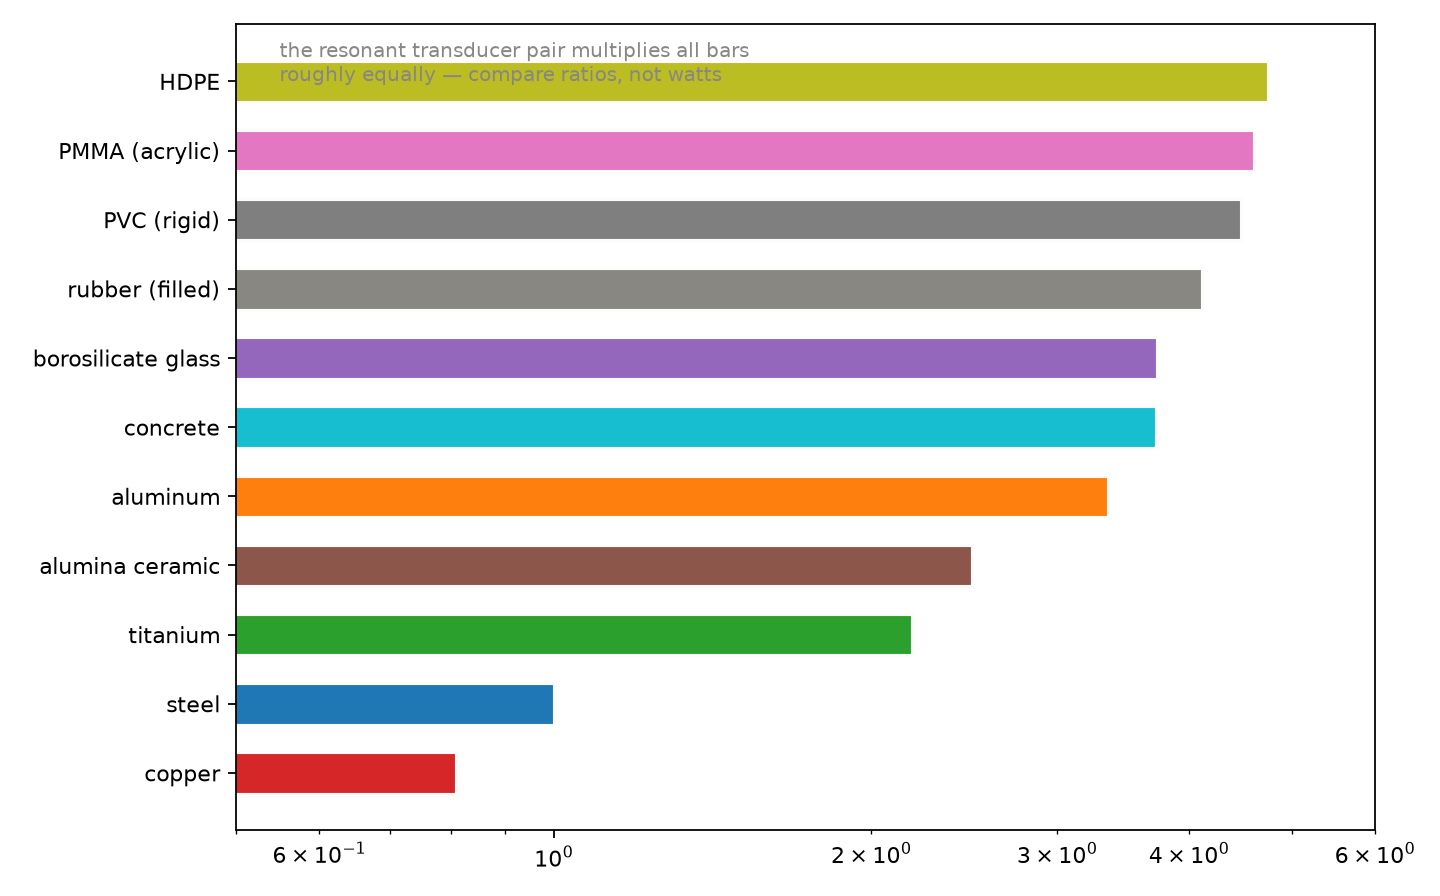
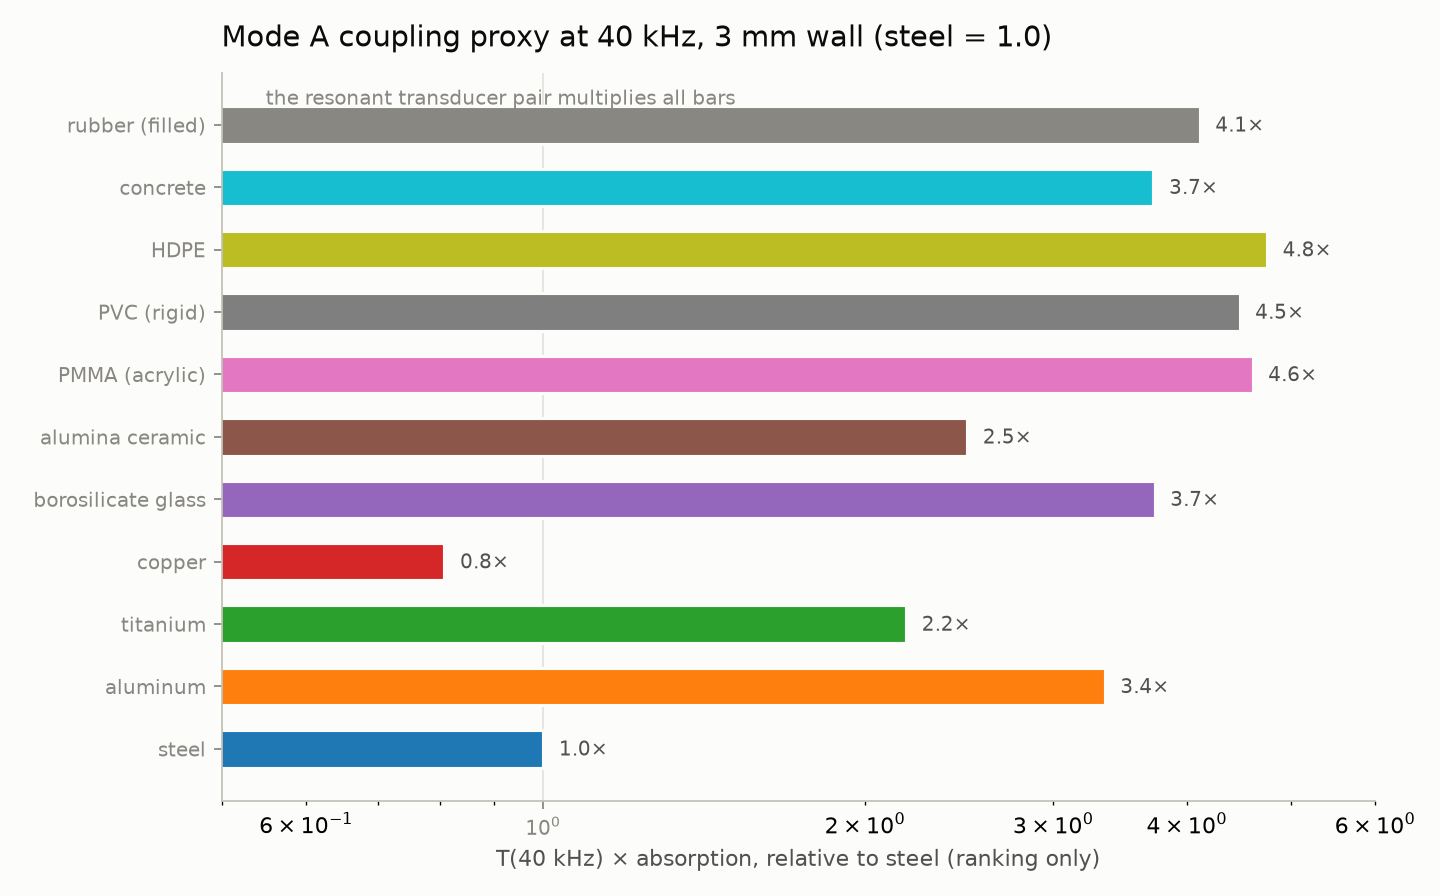
simulator+docs: the dose — wave-in-wall stress and self-heating vs frequency
Second half of the material study: what the radiation does TO the wall.
Stress sigma = sqrt(2*I*Z) is frequency-independent and leaves 65-680x
margins on every structural metal; self-heating dT ~ alpha(f)*I*d^2/8k
is the frequency-dependent harm — PMMA crosses +10 K near 1 W/cm^2 at
1 MHz, PVC at ~0.7, rubber deposits ~144 K per W/cm^2 at 1 MHz, concrete
is tensile-fatigue bound at ~1.6 W/cm^2 regardless of frequency. New
mat4 chart (heating curves + per-material intensity ceiling) with k and
fatigue limits added to the material table; docs/06 gains the dose
section, and the 002 follow-up now calls for an IR ΔT measurement.
Also fixes mat3: the bar chart was being overwritten by a stray empty
duplicate render left from an edit.

diff --git a/software/simulator/material_map.py b/software/simulator/material_map.py
@@ -4,7 +4,9 @@
 material_map.py — which wall materials carry power and data between two
 piezoelectric devices, and under which mode. The steel-only companion of
 channel_sim.py, covering titanium, aluminum, glass, ceramics, plastics,
-concrete — and the honest dead ends.
+concrete — and the honest dead ends — plus the reverse question: how much
+of the wave stays IN the wall (stress and self-heating vs frequency), and
+where the safe intensity ceiling for each material lies.
 
 Derived from the same semi-empirical model as channel_sim.py (NOT FEM, NOT
 lab data — intuition for which materials deserve a hardware experiment):
@@ -55,6 +57,7 @@ INK2    = "#52514e"
 MUTED   = "#898781"
 GRID    = "#e1e0d9"
 BASE    = "#c3c2b7"
+S3_BAND = "#1baf7a"   # aqua — the "project-relevant" band shade (mat4)
 
 def style_ax(ax, title, xlabel, ylabel):
     ax.set_facecolor(SURFACE)
@@ -73,36 +76,40 @@ def style_ax(ax, title, xlabel, ylabel):
 # ---------- wall materials ----------
 # Typical handbook values (longitudinal, ~20 °C). NOT measurements of specific
 # stock — batch-dependent: grain, fillers, aggregate, cure.
-#   rho   kg/m^3        density
-#   c     m/s           longitudinal sound speed
-#   a1    dB/cm@1MHz    bulk absorption at 1 MHz (one-way, longitudinal)
-#   gamma               alpha(f) = a1*(f/1MHz)^gamma  (1 = viscous/relaxation,
-#                       > 2 = scattering off inhomogeneities)
-#   cls   "metal" | "nonmetal"
+#   rho     kg/m^3        density
+#   c       m/s           longitudinal sound speed
+#   a1      dB/cm@1MHz    bulk absorption at 1 MHz (one-way, longitudinal)
+#   gamma                 alpha(f) = a1*(f/1MHz)^gamma  (1 = viscous/relaxation,
+#                         > 2 = scattering off inhomogeneities)
+#   k       W/(m*K)       thermal conductivity (sets the self-heating ceiling)
+#   sig_e   MPa           high-cycle fatigue limit for metals, flexural
+#                         strength for ceramics/glass, tensile strength for
+#                         concrete/rubber — the stress the wave must stay under
+#   cls     "metal" | "nonmetal"
 MATERIALS = [
-    # key        label           rho     c      a1     gamma  cls        note
-    ("steel",    "steel",        7850.0, 5900.0, 0.02, 1.0,  "metal",
+    # key        label           rho     c      a1    gamma  k      sig_e cls        note
+    ("steel",    "steel",        7850.0, 5900.0, 0.02, 1.0,  45.0,  200.0, "metal",
      "fine-grained structural"),
-    ("alum",     "aluminum",     2700.0, 6320.0, 0.02, 1.0,  "metal",
+    ("alum",     "aluminum",     2700.0, 6320.0, 0.02, 1.0,  205.0, 60.0,  "metal",
      "6061-class"),
-    ("ti",       "titanium",     4430.0, 6100.0, 0.03, 1.0,  "metal",
+    ("ti",       "titanium",     4430.0, 6100.0, 0.03, 1.0,  7.0,   500.0, "metal",
      "Ti-6Al-4V"),
-    ("cu",       "copper",       8960.0, 4760.0, 0.05, 1.0,  "metal",
+    ("cu",       "copper",       8960.0, 4760.0, 0.05, 1.0,  400.0, 60.0,  "metal",
      "dense, very high Z"),
-    ("glass",    "borosilicate glass", 2230.0, 5640.0, 0.01, 1.0, "nonmetal",
-     "very low loss"),
-    ("alumina",  "alumina ceramic",    3890.0, 9900.0, 0.08, 1.0, "nonmetal",
+    ("glass",    "borosilicate glass", 2230.0, 5640.0, 0.01, 1.0, 1.1, 30.0, "nonmetal",
+     "very low loss; brittle — compare to tensile strength"),
+    ("alumina",  "alumina ceramic",    3890.0, 9900.0, 0.08, 1.0,  30.0, 300.0, "nonmetal",
      "fast sound, low loss"),
-    ("pmma",     "PMMA (acrylic)",     1180.0, 2690.0, 2.5, 1.2, "nonmetal",
+    ("pmma",     "PMMA (acrylic)",     1180.0, 2690.0, 2.5, 1.2,  0.19, 15.0,  "nonmetal",
      "transparent, absorption-limited at MHz"),
-    ("pvc",      "PVC (rigid)",        1400.0, 2380.0, 6.0, 1.2, "nonmetal",
-     "lossier than PMMA"),
-    ("hdpe",     "HDPE",               950.0,  2340.0, 12.0, 1.5, "nonmetal",
-     "soft, lossy"),
-    ("concrete", "concrete",           2300.0, 3500.0, 5.0, 2.5, "nonmetal",
-     "aggregate scattering dominates; varies by orders of magnitude"),
-    ("rubber",   "rubber (filled)",    1100.0, 1500.0, 60.0, 1.0, "nonmetal",
-     "the honest dead end"),
+    ("pvc",      "PVC (rigid)",        1400.0, 2380.0, 6.0, 1.2,  0.15, 15.0,  "nonmetal",
+     "lossier than PMMA, Tg ~75 °C"),
+    ("hdpe",     "HDPE",               950.0,  2340.0, 12.0, 1.5,  0.45, 8.0,  "nonmetal",
+     "soft, lossy, melt ~130 °C"),
+    ("concrete", "concrete",           2300.0, 3500.0, 5.0, 2.5,  1.7,  2.5,  "nonmetal",
+     "aggregate scattering dominates; binding limit is TENSILE strength"),
+    ("rubber",   "rubber (filled)",    1100.0, 1500.0, 60.0, 1.0,  0.15, 1.5,  "nonmetal",
+     "the honest dead end: hysteresis heating"),
 ]
 BY_KEY = {m[0]: m for m in MATERIALS}
 
@@ -117,6 +124,16 @@ F_MODE_A = 40e3          # Hz
 
 def z_mrayl(m) -> float:
     return m[2] * m[3] / 1e6
+
+# accessors — keep the wide tuples from leaking numeric indices everywhere
+def mat_k(m):
+    return m[6]                      # W/(m*K)
+
+def mat_sig_e(m):
+    return m[7]                      # MPa, fatigue/strength limit
+
+def mat_cls(m):
+    return m[8]                      # "metal" | "nonmetal"
 
 def fp_transmission(f, d_m, c, z_wall, z_med=COUPLANT_Z):
     """Lossless Fabry-Perot intensity transmission of a slab (same model as
@@ -135,6 +152,40 @@ def wall_transmission(f, m, d_m):
     return fp_transmission(f, d_m, m[3], z_mrayl(m)) * absorption(
         f, d_m, m[4], m[5])
 
+# ---------- the dose: what the wave does to the wall ----------
+I_REF = 1e4          # W/m^2 — one watt per square centimetre
+DT_MAX = 20.0        # K — self-heating ceiling we call "safe" (well below
+                     # Tg of the polymers in the table; see docs/06)
+STRESS_FRAC = 0.2    # fraction of the fatigue/strength limit we spend
+
+def stress_mpa(m, intensity_w_m2=I_REF):
+    """Plane-wave stress amplitude sigma = Z*v = sqrt(2*I*Z).
+
+    Frequency-independent (a plane wave at fixed intensity carries the same
+    stress at any frequency) — the frequency-dependent harm is thermal."""
+    return np.sqrt(2.0 * intensity_w_m2 * z_mrayl(m) * 1e6) / 1e6
+
+def mu_np_per_m(m, f):
+    """Bulk attenuation of the wave as Np/m — power absorbed per m is mu*I."""
+    return m[4] * (f / 1e6) ** m[5] * 100.0 / 8.686
+
+def heat_dT(m, f, d_mm=WALL_MM, intensity_w_m2=I_REF):
+    """Steady-state mid-plane self-heating of a both-faces-cooled slab with
+    uniform generation (conservative-vs-transient duty, optimistic-vs-contact
+    losses): dT = q*d^2/(8*k)."""
+    d = d_mm / 1000.0
+    q = mu_np_per_m(m, f) * intensity_w_m2          # W/m^3
+    return q * d * d / (8.0 * mat_k(m))             # K (mid-plane, steady state)
+
+def intensity_ceiling_wcm2(m, f, d_mm=WALL_MM):
+    """Continuous intensity the wall survives: the lower of the stress cap
+    (STRESS_FRAC of the fatigue/strength limit) and the heating cap
+    (DT_MAX with both faces at ambient)."""
+    i_stress = (STRESS_FRAC * mat_sig_e(m) * 1e6) ** 2 / (2.0 * z_mrayl(m) * 1e6)
+    d = d_mm / 1000.0
+    i_heat = DT_MAX * 8.0 * mat_k(m) / (mu_np_per_m(m, f) * d * d)
+    return min(i_stress, i_heat) / 1e4              # W/cm^2
+
 def chart_comb(out: Path):
     """Mode B (MHz): thickness-resonance comb of a 5 mm wall per material."""
     f_metals = np.linspace(0.1e6, 2.0e6, 8000)
@@ -145,7 +196,7 @@ def chart_comb(out: Path):
               (axes[1], f_nonmet, "Non-metals", "nonmetal")]
     for ax, f, title, cls in panels:
         for m in MATERIALS:
-            if m[6] != cls:
+            if mat_cls(m) != cls:
                 continue
             df_comb = m[3] / (2.0 * d) / 1e3          # kHz
             styled = dict(color=COLOR[m[0]], linewidth=1.8,
@@ -241,26 +292,47 @@ def chart_mode_a(out: Path):
     fig.tight_layout()
     fig.savefig(out / "mat3-modea-coupling-materials.png", dpi=160)
     plt.close(fig)
-    vals.sort(key=lambda v: v[1])
-    names = [v[0] for v in vals]
-    rel = [v[1] / ref for v in vals]
-    y = np.arange(len(vals))
-    fig, ax = plt.subplots(figsize=(9, 5.6))
-    colors = [COLOR[BY_KEY_LOOKUP[n]] for n in names]
-    ax.barh(y, rel, height=0.6, color=colors, edgecolor=SURFACE, linewidth=1.4)
-    ax.set_yticks(y, names)
-    ax.set_xscale("log")
-    ax.set_xlim(0.5, 6)
-    ax.text(0.55, len(vals) - 0.4,
-            "the resonant transducer pair multiplies all bars\n"
-            "roughly equally — compare ratios, not watts",
-            color=MUTED, fontsize=9, va="top")
-    fig.tight_layout()
-    fig.savefig(out / "mat3-modea-coupling-materials.png", dpi=160)
-    plt.close(fig)
 
 # label -> material key reverse lookup for the bar colors
 BY_KEY_LOOKUP = {m[1]: m[0] for m in MATERIALS}
+
+def chart_harm(out: Path):
+    """The dose. Left: steady self-heating of a 5 mm wall at 1 W/cm^2 vs
+    frequency — the frequency-dependent harm (scales as alpha(f)). Right:
+    the continuous intensity ceiling that follows from it plus the stress
+    cap — where each material's curve dies is its usable frequency range."""
+    f = np.logspace(np.log10(20e3), np.log10(5e6), 600)
+    fig, (ax1, ax2) = plt.subplots(1, 2, figsize=(12, 4.8))
+
+    for m in MATERIALS:
+        c = COLOR[m[0]]
+        styled = dict(color=c, linewidth=1.8, label=m[1])
+        if m[0] == "rubber":
+            styled.update(linewidth=1.4, linestyle="--")
+        ax1.loglog(f / 1e3, [heat_dT(m, fi) for fi in f], **styled)
+        ax2.loglog(f / 1e3, [intensity_ceiling_wcm2(m, fi) for fi in f],
+                   **styled)
+
+    ax1.axhline(10.0, color=MUTED, linewidth=0.9, linestyle="--", alpha=0.8)
+    ax1.annotate("+10 K", (22, 12), color=MUTED, fontsize=9)
+    style_ax(ax1, "Self-heating of a 5 mm wall at 1 W/cm²",
+             "Frequency, kHz", "Steady ΔT (both faces cooled), K")
+    ax1.set_ylim(1e-6, 3e3)
+    ax1.legend(frameon=False, labelcolor=INK2, fontsize=7.5)
+
+    ax2.axhspan(1e-3, 1.0, color=S3_BAND, alpha=0.14)
+    ax2.annotate("power levels this project actually runs\n(≤ 1 W/cm² incl. "
+                 "the liquid cavitation cap)", (25, 0.09), color=INK2,
+                 fontsize=9)
+    style_ax(ax2, "Continuous intensity ceiling (stress + heat)",
+             "Frequency, kHz", "Safe ceiling, W/cm² (log)")
+    ax2.set_ylim(3e-2, 4e4)
+    fig.suptitle("What the wave does to the wall — heating is the"
+                 " frequency-dependent harm, stress is not",
+                 x=0.02, ha="left", fontsize=12, color=INK)
+    fig.tight_layout(rect=(0, 0, 1, 0.94))
+    fig.savefig(out / "mat4-harm-materials.png", dpi=160)
+    plt.close(fig)
 
 def summary_table() -> str:
     d_b = WALL_MM / 1000.0
@@ -276,7 +348,21 @@ def summary_table() -> str:
         t40 = fp_transmission(F_MODE_A, d_a, m[3], z) * absorption(
             F_MODE_A, d_a, m[4], m[5])
         rows.append(f"| {m[1]} | {m[2]:.0f} | {m[3]:.0f} | {z:.1f} | "
-                    f"{m[4]:g} | {df_comb:.0f} | {lam40:.0f} | {t40:.2f} | {m[7]} |")
+                    f"{m[4]:g} | {df_comb:.0f} | {lam40:.0f} | {t40:.2f} | {m[9]} |")
+    return "\n".join(rows)
+
+def harm_table() -> str:
+    rows = [
+        "| Wall | σ @1 W/cm², MPa | limit σ_e, MPa | stress margin | "
+        "ΔT @40 kHz, K | ΔT @1 MHz, K | ΔT @5 MHz, K | ceiling @40 kHz, W/cm² | ceiling @1 MHz, W/cm² |",
+        "|---|---|---|---|---|---|---|---|---|"]
+    for m in MATERIALS:
+        s = stress_mpa(m)
+        margin = mat_sig_e(m) / s
+        d40, d1, d5 = (heat_dT(m, f) for f in (40e3, 1e6, 5e6))
+        c40, c1 = (intensity_ceiling_wcm2(m, f) for f in (40e3, 1e6))
+        rows.append(f"| {m[1]} | {s:.2f} | {mat_sig_e(m):g} | {margin:.0f}× | "
+                    f"{d40:.2f} | {d1:.1f} | {d5:.0f} | {c40:.1f} | {c1:.2f} |")
     return "\n".join(rows)
 
 if __name__ == "__main__":
@@ -287,8 +373,10 @@ if __name__ == "__main__":
     a = p.parse_args()
     out = Path(a.out)
     out.mkdir(parents=True, exist_ok=True)
-    for chart in (chart_comb, chart_map, chart_mode_a):
+    for chart in (chart_comb, chart_map, chart_mode_a, chart_harm):
         chart(out)
-    print("OK: mat1/mat2/mat3 PNG →", out.resolve())
+    print("OK: mat1/mat2/mat3/mat4 PNG →", out.resolve())
     print()
     print(summary_table())
+    print()
+    print(harm_table())

diff --git a/docs/06-materials.md b/docs/06-materials.md
@@ -8,7 +8,7 @@ Generate: `python3 software/simulator/material_map.py` (needs numpy + matplotlib
 
 ## The model in one minute
 
-Two losses decide whether a wave crosses a wall of thickness d:
+Three quantities decide whether a wall is usable at all, and for how much power:
 
 1. **Impedance contrast and phase** — the lossless Fabry–Perot slab model, identical to [channel_sim](../software/simulator/channel_sim.py):
    T(f) = 1 / (1 + ((r − 1/r)/2)² · sin(2πfd/c)²), r = Z_wall / Z_couplant, couplant Z = 1.5 MRayl (grease).
@@ -17,6 +17,7 @@ Two losses decide whether a wave crosses a wall of thickness d:
    A(f) = 10^(−α(f)·d/10), α(f) = α₁ₘₕᶻ · (f/1 MHz)^γ [dB/cm, one-way, longitudinal],
    where α₁ₘₕᶻ is the 1 MHz value.
    γ ≈ 1 = viscous/relaxation loss; γ > 2 = scattering off inhomogeneities (concrete aggregate).
+3. **The dose the wall takes back** — see the section [below](#the-dose-what-the-wave-does-to-the-wall-frequency-by-frequency): stress σ = √(2·I·Z), which does *not* depend on frequency, and self-heating ΔT ∝ α(f)·I, which does.
 
 **Assumptions, stated where the code states them:** typical handbook properties (longitudinal wave, ~20 °C); real stocks vary — grain, fillers, aggregates, cure. Everything below is a ranking, not a datasheet.
 
@@ -56,6 +57,40 @@ Two losses decide whether a wave crosses a wall of thickness d:
 - **The battery-pack niche ([05](05-applications-map.md)) is acoustically favorable:** a 2–3 mm aluminum wall has a coupling proxy ~3× steel's and negligible absorption — the flagship case is also the easy case.
 - **The frequency ladder to plan for in mode B** (5 mm wall, first comb): PVC/HDPE ≈ 235 kHz, PMMA ≈ 270, copper ≈ 480, steel ≈ 590, titanium ≈ 610, aluminum ≈ 630, glass ≈ 560, alumina ≈ 990. Thinner wall ⇒ proportionally higher.
 
+## The dose: what the wave does to the wall, frequency by frequency
+
+Transmission answers "how much gets through"; this section answers the reverse question — **how much of the wave stays in the wall, and does that hurt it?** Wave-in-wall harm has exactly two faces:
+
+- **Stress** σ = √(2·I·Z) — plane-wave momentum; *frequency-independent*. Compare against the high-cycle fatigue limit (metals), flexural/tensile strength (ceramics, glass, concrete, rubber).
+- **Self-heating** ΔT = α(f)·I·d²/(8k), steady state, both faces cooled — *frequency-dependent* through α(f), and that is where frequency bites: every insulating material has a knee above which each extra octave of frequency multiplies the deposited heat.
+
+At 1 W/cm² (already beyond what this project targets: the stage-2 goal of 0.5–5 W spread over a ~19 cm² transducer face is 0.03–0.26 W/cm²):
+
+| Wall | σ @1 W/cm², MPa | limit σ_e, MPa | stress margin | ΔT @40 kHz, K | ΔT @1 MHz, K | ΔT @5 MHz, K | ceiling @40 kHz, W/cm² | ceiling @1 MHz, W/cm² |
+|---|---|---|---|---|---|---|---|---|
+| steel | 0.96 | 200 | 208× | ~0 | ~0 | ~0 | ~1700 | ~1700 |
+| aluminum | 0.58 | 60 | 103× | ~0 | ~0 | ~0 | ~420 | ~420 |
+| titanium | 0.74 | 500 | 680× | ~0 | ~0 | ~0 | ~18000 | ~13000 |
+| copper | 0.92 | 60 | 65× | ~0 | ~0 | ~0 | ~170 | ~170 |
+| borosilicate glass | 0.50 | 30 | 60× | ~0 | ~0 | ~0 | ~140 | ~140 |
+| alumina ceramic | 0.88 | 300 | 342× | ~0 | ~0 | ~0 | ~4700 | ~4700 |
+| PMMA (acrylic) | 0.25 | 15 | 60× | 0.1 | 4.7 | 33 | ~140 | 4.2 |
+| PVC (rigid) | 0.26 | 15 | 58× | 0.3 | 14.4 | 99 | ~66 | 1.4 |
+| HDPE | 0.21 | 8 | 38× | 0.1 | 9.6 | 107 | ~58 | 2.1 |
+| concrete | 0.40 | 2.5 | 6× | ~0 | 1.1 | 59 | 1.6 | 1.6 |
+| rubber (filled) | 0.18 | 1.5 | 8× | 5.8 | 144 | 720 | 2.7 | 0.14 |
+
+"Ceiling" = continuous intensity at which the wall stays inside 20% of its fatigue/strength limit and under +20 K of self-heating (steady state, both faces held at ambient — a wall with an insulated, air-backed face does better than K worse on the heated side only when contact also insulates it; treat the numbers as a first cut, not a design guarantee).
+
+<img src="img/mat4-harm-materials.png" width="920">
+
+What the dose sweep says:
+
+- **The steel verdict of [00-theory](00-theory.md) holds and generalizes**: every structural metal carries 1 W/cm² with margins of 65–680× in stress and micro-kelvins of self-heating. Metals are frequency-insensitive in harm terms — their loss is too small to heat at any power we can couple.
+- **Frequency harm on polymers is thermal, not mechanical.** PMMA's stress margin is a comfortable 60× even at 1 W/cm², but its heating knee sits near ~50 Hz·kHz scale: safe (~0.1 K) at 40 kHz, warm (+4.7 K) at 1 MHz, softening (+33 K) at 5 MHz. PVC crosses the +10 K line already at ~0.7 W/cm² @ 1 MHz; rubber deposits ~144 K/W·cm⁻² at 1 MHz — hysteretic heating is *the* reason elastomer-lined walls die, not the comb.
+- **Concrete's tight margin is tensile, not thermal**: 0.40 MPa wave stress against a ~2.5 MPa static tensile strength (fatigue lower still) leaves only a ~6× margin at 1 W/cm². The 40–80 kHz regime stays fine at the project's power density; concentrated multi-W/cm² beams into concrete should be avoided, MHz doubly so (scattering heats the aggregate interfaces).
+- **Bottom line for the roadmap:** at mode-A power densities (≤0.3 W/cm²) no solid in the table is endangered — stress margins ≥15×, heating ≤1.5 K. The harm map justifies the project's plan to escalate power: the first real material limits appear *above* the stage-2 targets, first in liquids (cavitation, the ≤1 W/cm² rule of [00-theory](00-theory.md)), then in concrete's tensile fatigue, then in polymers at MHz. The parts that actually need watching at high power remain the piezo ceramic and the bond line — [02-safety](02-safety.md) — not the wall.
+
 ## Verdict per material
 
 | Wall | Mode A — 40 kHz power | Mode B — MHz power/data | Verdict |
@@ -75,4 +110,4 @@ A low-Z plastic wall has more headroom for *misalignment-tolerant* mode-A links 
 
 ## What a hardware follow-up should measure
 
-Before trusting any specific plate: two-thickness method per material (two plates of d and 2d at the same contact) to extract real α(f) and c — that single dataset replaces every row of the table above. Natural bonus passes inside the existing protocols: repeat the experiment [001](../experiments/001-sweep-map-3mm-steel/README.md) sweep on a 5 mm PMMA plate, a borosilicate or 99% alumina plate, and a concrete block of known grade; expect a *lower but broader* peak for the plastics, a sharp comb for the ceramics, and a temperature-sensitive contact everywhere. Nothing in this page is measured — it is the map of what to measure first.
+Before trusting any specific plate: two-thickness method per material (two plates of d and 2d at the same contact) to extract real α(f) and c — that single dataset replaces every row of the table above. Natural bonus passes inside the existing protocols: repeat the experiment [001](../experiments/001-sweep-map-3mm-steel/README.md) sweep on a 5 mm PMMA plate, a borosilicate or 99% alumina plate, and a concrete block of known grade; expect a *lower but broader* peak for the plastics, a sharp comb for the ceramics, and a temperature-sensitive contact everywhere. During the experiment [002](../experiments/002-watts-3mm-steel/README.md) power run, strap an IR thermometer (or a fine thermocouple) to the far face of each wall type — the measured ΔT at known input is the one number that validates or kills the heating column of the dose table. Nothing in this page is measured — it is the map of what to measure first.
